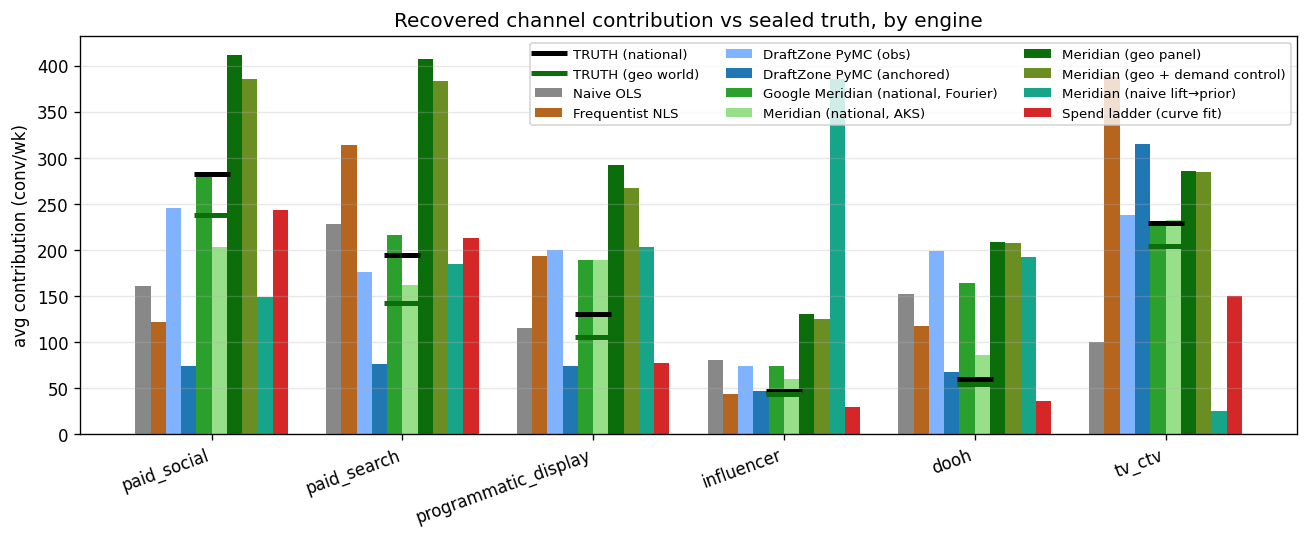
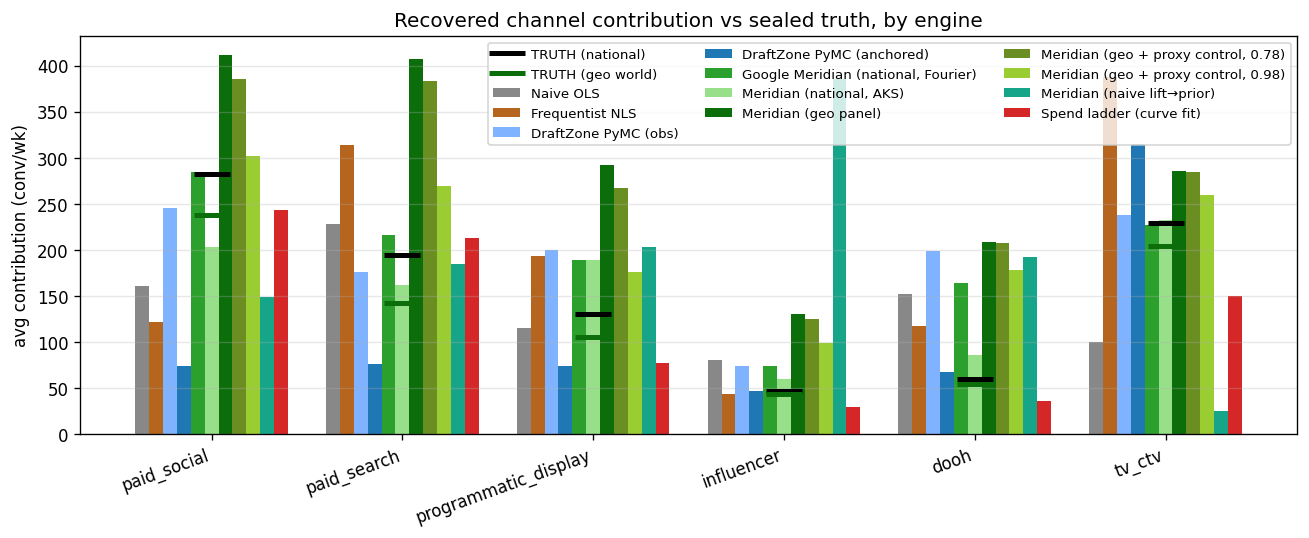
Leaderboard: full geo control-quality spectrum
Near-perfect-proxy fit lands; the geo control experiment now traces the whole
curve (graded against the geo world's own sealed key):

  geo, no control            MAE 158  bias +120%  0/6   (R² 0.931)
  geo + proxy fidelity 0.78  MAE 144  bias +110%  0/6   (~9% bought back)
  geo + proxy fidelity 0.98  MAE  83  bias  +63%  1/6   (~48% bought back)

The lesson is sharper than expected: control quality sets the ceiling, but a
realistic (0.78) proxy barely dents the bias, and even a near-perfect (0.98)
one only claws back about half and still over-credits +63% — because the
residual the proxy misses still tracks the targeted spend, and the confounder's
pull on conversions rivals the entire media signal. You can't tell from fit (R²
stays 0.93-0.97) whether the control was good enough. Only a randomized
experiment breaks a confounder you can't see. National AKS stays best-calibrated
(MAE 35, bias -1%, 6/6). Callout + figure regenerated.

diff --git a/docs/engines/index.html b/docs/engines/index.html
@@ -44,8 +44,8 @@ key (a lower media total, because targeting concentrates spend into Hill saturat
 </div></header>
 <main class="wrap"><section>
 <div class="card"><img src="leaderboard.png" alt="engine comparison">
-<div class="tablewrap"><table><thead><tr><th>engine</th><th>world</th><th>type</th><th>R²</th><th>MAE/ch ↓</th><th>media bias</th><th>CIs hit</th></tr></thead><tbody><tr><td>Meridian (national, AKS)</td><td>nat'l</td><td>Bayesian</td><td>0.913</td><td>35</td><td>-1%</td><td>6/6</td></tr><tr><td>Google Meridian (national, Fourier)</td><td>nat'l</td><td>Bayesian</td><td>0.860</td><td>36</td><td>+23%</td><td>5/6</td></tr><tr><td>Spend ladder (curve fit)</td><td>nat'l</td><td>Bayesian</td><td>—</td><td>39</td><td>-21%</td><td>4/6</td></tr><tr><td>DraftZone PyMC (obs)</td><td>nat'l</td><td>Bayesian</td><td>0.854</td><td>50</td><td>+20%</td><td>5/6</td></tr><tr><td>Naive OLS</td><td>nat'l</td><td>point</td><td>0.679</td><td>71</td><td>-11%</td><td>—</td></tr><tr><td>DraftZone PyMC (anchored)</td><td>nat'l</td><td>Bayesian</td><td>0.794</td><td>79</td><td>-31%</td><td>6/6</td></tr><tr><td>Frequentist NLS</td><td>nat'l</td><td>point</td><td>0.882</td><td>94</td><td>+25%</td><td>—</td></tr><tr><td>Meridian (geo + demand control)</td><td>geo</td><td>Bayesian</td><td>0.939</td><td>144</td><td>+110%</td><td>0/6</td></tr><tr><td>Meridian (naive lift→prior)</td><td>nat'l</td><td>Bayesian</td><td>0.845</td><td>149</td><td>+21%</td><td>3/6</td></tr><tr><td>Meridian (geo panel)</td><td>geo</td><td>Bayesian</td><td>0.931</td><td>158</td><td>+120%</td><td>0/6</td></tr></tbody></table></div>
-<div class="callout"><b>Meridian, four ways.</b> Same scale-corrected ROI prior: national + Fourier controls (MAE 36); national + Meridian's own AKS knots, no Fourier (MAE 35); the hardened multi-geo panel (MAE 158); the same geo panel WITH a demand-proxy control (MAE 144). The geo panel is Meridian's home turf — spend varies across geos within a week, cross-sectional identification the national series lacks — but this panel is <b>hardened</b>: a latent geo×time demand factor both lifts non-media conversions and draws targeted spend (realized corr(spend, demand) +0.74), the geo analogue of the spend↔season confound, graded against the geo world's own answer key. With <b>no control</b> for it, geo Meridian blows up to <b>MAE 158</b> (media bias +120%, 0/6 CIs) — high R² and confidently wrong on every channel, because it credits the demand-driven conversions to the spend that chases them. Feed it an <b>imperfect demand proxy</b> (fidelity corr 0.78) as a control and most of the damage reverses: <b>MAE 144</b> (bias +110%, 0/6 CIs), about 9% of the error bought back. A good control fights the confounder — but a proxy is never perfect, and you can't know from fit alone whether it was good enough. National AKS remains best-calibrated (MAE 35, bias -1%, 6/6 CIs). The throughline: more/better data (geo cross-section, demand proxy) helps, but only a <b>randomized experiment</b> breaks a confounder you can't see — the reason this whole project triangulates MMM with geo tests instead of trusting any single fit.</div>
+<div class="tablewrap"><table><thead><tr><th>engine</th><th>world</th><th>type</th><th>R²</th><th>MAE/ch ↓</th><th>media bias</th><th>CIs hit</th></tr></thead><tbody><tr><td>Meridian (national, AKS)</td><td>nat'l</td><td>Bayesian</td><td>0.913</td><td>35</td><td>-1%</td><td>6/6</td></tr><tr><td>Google Meridian (national, Fourier)</td><td>nat'l</td><td>Bayesian</td><td>0.860</td><td>36</td><td>+23%</td><td>5/6</td></tr><tr><td>Spend ladder (curve fit)</td><td>nat'l</td><td>Bayesian</td><td>—</td><td>39</td><td>-21%</td><td>4/6</td></tr><tr><td>DraftZone PyMC (obs)</td><td>nat'l</td><td>Bayesian</td><td>0.854</td><td>50</td><td>+20%</td><td>5/6</td></tr><tr><td>Naive OLS</td><td>nat'l</td><td>point</td><td>0.679</td><td>71</td><td>-11%</td><td>—</td></tr><tr><td>DraftZone PyMC (anchored)</td><td>nat'l</td><td>Bayesian</td><td>0.794</td><td>79</td><td>-31%</td><td>6/6</td></tr><tr><td>Meridian (geo + proxy control, 0.98)</td><td>geo</td><td>Bayesian</td><td>0.970</td><td>83</td><td>+63%</td><td>1/6</td></tr><tr><td>Frequentist NLS</td><td>nat'l</td><td>point</td><td>0.882</td><td>94</td><td>+25%</td><td>—</td></tr><tr><td>Meridian (geo + proxy control, 0.78)</td><td>geo</td><td>Bayesian</td><td>0.939</td><td>144</td><td>+110%</td><td>0/6</td></tr><tr><td>Meridian (naive lift→prior)</td><td>nat'l</td><td>Bayesian</td><td>0.845</td><td>149</td><td>+21%</td><td>3/6</td></tr><tr><td>Meridian (geo panel)</td><td>geo</td><td>Bayesian</td><td>0.931</td><td>158</td><td>+120%</td><td>0/6</td></tr></tbody></table></div>
+<div class="callout"><b>Meridian across the control-quality spectrum.</b> Same scale-corrected ROI prior: national + Fourier controls (MAE 36); national + Meridian's own AKS knots, no Fourier (MAE 35); the hardened multi-geo panel (MAE 158); that panel + an imperfect demand proxy (MAE 144); + a near-perfect demand proxy (MAE 83). The geo panel is Meridian's home turf — spend varies across geos within a week, cross-sectional identification the national series lacks — but this panel is <b>hardened</b>: a latent geo×time demand factor both lifts non-media conversions and draws targeted spend (realized corr(spend, demand) +0.74), the geo analogue of the spend↔season confound, graded against the geo world's own answer key. With <b>no control</b> for it, geo Meridian blows up to <b>MAE 158</b> (media bias +120%, 0/6 CIs) — high R² and confidently wrong on every channel, crediting the demand-driven conversions to the spend that chases them. An <b>imperfect</b> demand-proxy control (fidelity 0.78) barely helps — <b>MAE 144</b>, bias +110%, only ~9% of the error bought back: the confounder's pull on conversions rivals the entire media signal, so what the proxy MISSES still tracks spend and keeps over-crediting. Even a <b>near-perfect</b> proxy (fidelity 0.98) only claws back about half — <b>MAE 83</b>, bias still +63%, 1/6 CIs (~48% of the error bought back) — because the residual it misses still tracks the targeted spend. Control quality sets the ceiling, but a realistic proxy lives down near the useless end, and even the unrealistic one doesn't fully repair it. National AKS stays best-calibrated (MAE 35, bias -1%, 6/6 CIs). The throughline: more data (geo cross-section) and better controls help, but you can never tell from fit alone whether your proxy was good enough — only a <b>randomized experiment</b> breaks a confounder you can't see. That is why this project triangulates MMM with geo tests instead of trusting any single fit.</div>
 <div class="callout"><b>The spend ladder is the cure for the saturated channels (MAE 39/ch, 4/6 CIs).</b> Instead of feeding ONE lift into a prior, it runs several cells per channel at different spend levels — including cells <i>below</i> current spend — and fits the response curve through them. The bracketing turns the read into an interpolation at the operating point, so it right-sizes the saturated channels a single secant mis-credits (paid_social, paid_search). It is also the most expensive option. <a href="../ladder/index.html">See the curves and the honest cost/time analysis →</a></div>
 <div class="callout warn"><b>Naive lift-calibration mis-sets channels (media bias +21%, MAE 149/ch).</b> Feeding one geo-lift number into a model's <i>marginal</i> prior is fragile for two reasons. <b>(1) Operating point:</b> if the test markets aren't scale-consistent replicas of the national channel, the lift is measured at the wrong point and grossly over-credits (+113% on half-sat geos here; ~+20% once the geos are centered on national). <b>(2) Secant bias:</b> a detectable lift needs a big spend bump, so it measures the <i>average</i> response over that jump, not the <i>marginal</i> — understating saturated channels (flat region) and overstating headroom ones (convex region), shifting credit from saturated to unsaturated channels. The fix isn't a scalar prior: feed the lift at its measured <b>exposure levels</b> and let the model's curve translate it (our DiD-likelihood anchor; Meridian's <code>roi_calibration_period</code>), or run a <b>spend ladder</b> to trace the curve. You can't just hand a lift test to an MMM.</div>
 <p class="small">All engines share the same Fourier-seasonality control set and public data — no

diff --git a/scripts/engine_leaderboard.py b/scripts/engine_leaderboard.py
@@ -258,10 +258,11 @@ def main():
                 bbh = 100 * (1 - ghi["mae"] / gge["mae"])
                 fth = f"{fidhi:.2f}" if fidhi is not None else "near-perfect"
                 verdict += (
-                    f" A <b>near-perfect</b> proxy (fidelity {fth}) finally recovers most of it — "
-                    f"<b>MAE {ghi['mae']:.0f}</b>, bias {ghi['media_bias']:+.0f}%, {ghi['hits']}/{ghi['n_ci']} "
-                    f"CIs, ~{bbh:.0f}% bought back. So the geo fit's quality is set entirely by "
-                    "<b>control quality</b> — and a real proxy lives near the useless end, not this one.")
+                    f" Even a <b>near-perfect</b> proxy (fidelity {fth}) only claws back about half — "
+                    f"<b>MAE {ghi['mae']:.0f}</b>, bias still {ghi['media_bias']:+.0f}%, {ghi['hits']}/{ghi['n_ci']} "
+                    f"CIs (~{bbh:.0f}% of the error bought back) — because the residual it misses still "
+                    "tracks the targeted spend. Control quality sets the ceiling, but a realistic proxy "
+                    "lives down near the useless end, and even the unrealistic one doesn't fully repair it.")
             if gak:
                 verdict += (f" National AKS stays best-calibrated (MAE {gak['mae']:.0f}, bias "
                             f"{gak['media_bias']:+.0f}%, {gak['hits']}/{gak['n_ci']} CIs).")